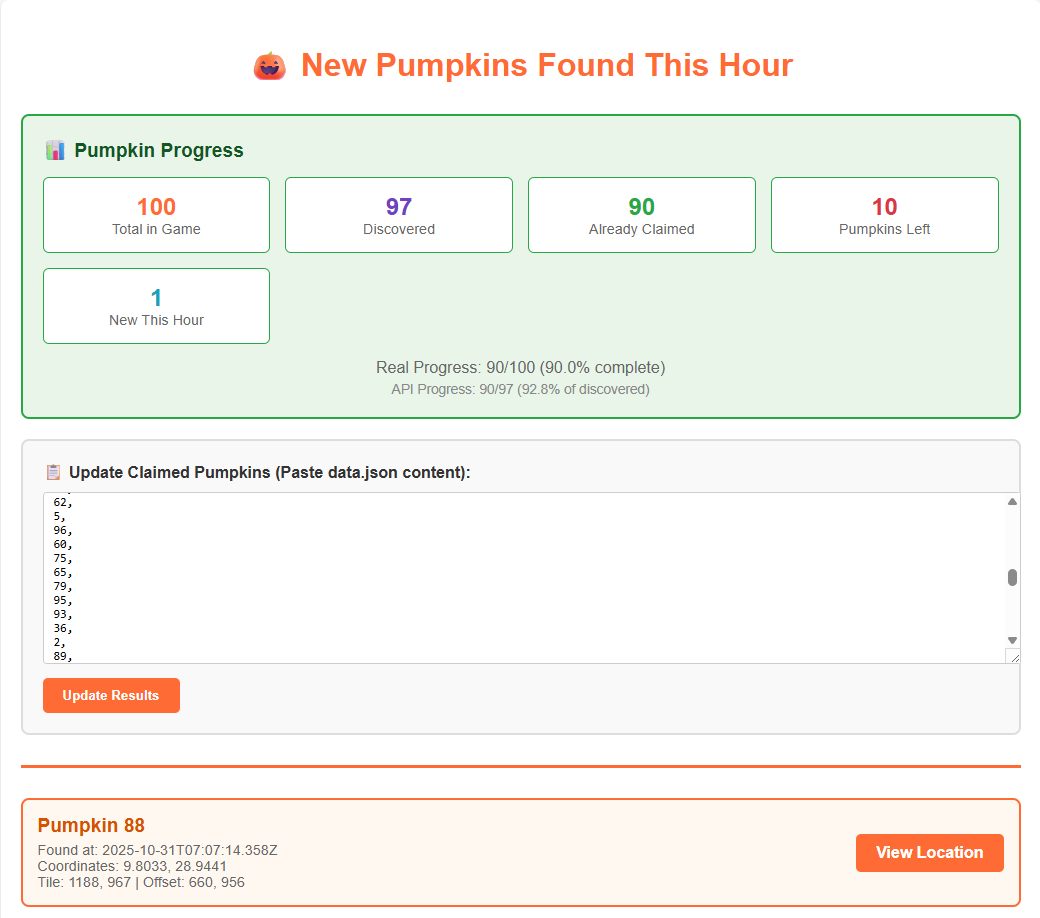
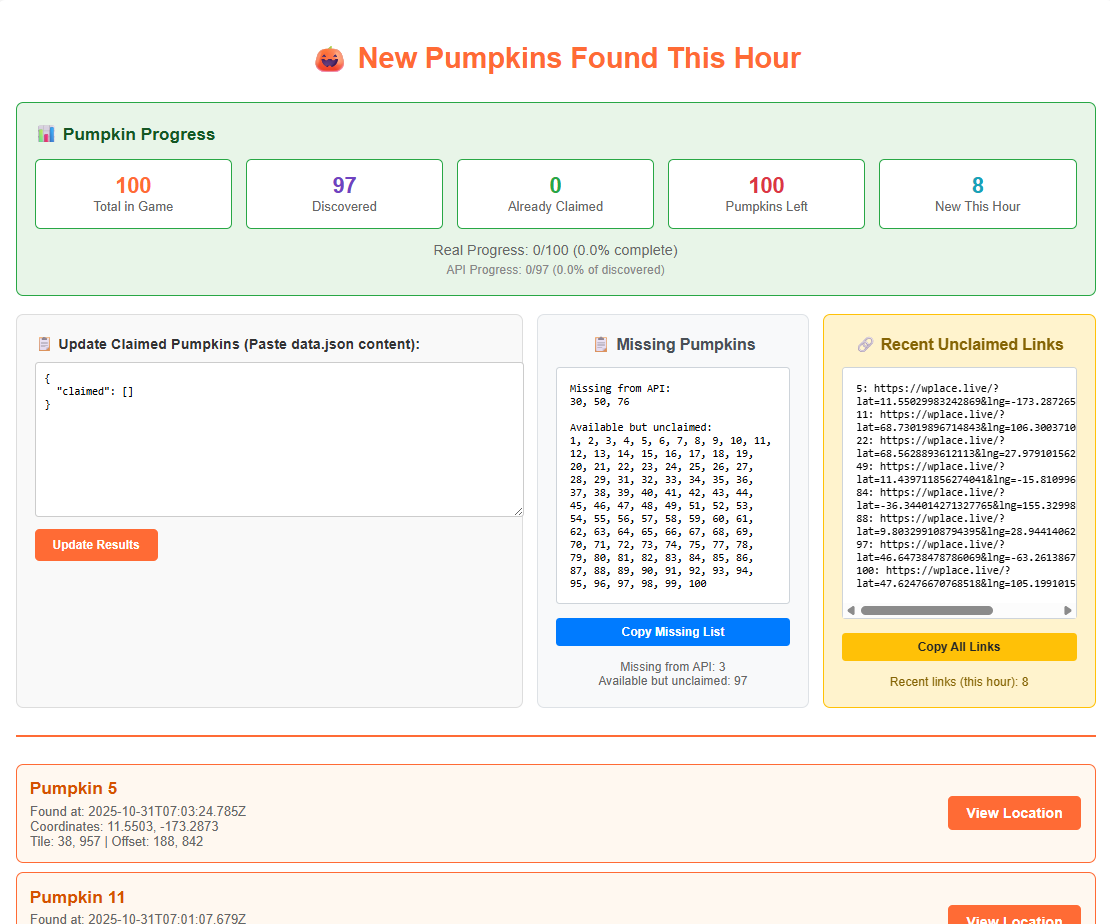
More info

diff --git a/fetch_pumpkin_data.py b/fetch_pumpkin_data.py
@@ -193,25 +193,49 @@ def create_web_app(initial_pumpkin_data: Dict[str, Any]) -> Flask:
                 background-color: #f5f5f5;
             }
             .container {
-                max-width: 1000px;
+                max-width: 1200px;
                 margin: 0 auto;
                 background-color: white;
                 padding: 20px;
                 border-radius: 8px;
                 box-shadow: 0 2px 4px rgba(0,0,0,0.1);
             }
+            .input-section-wrapper {
+                display: flex;
+                gap: 15px;
+                margin-bottom: 30px;
+            }
+            .input-section {
+                flex: 2;
+                background-color: #f9f9f9;
+                border: 2px solid #ddd;
+                border-radius: 8px;
+                padding: 20px;
+            }
+            .sidebar {
+                flex: 1;
+                background-color: #f8f9fa;
+                border: 2px solid #dee2e6;
+                border-radius: 8px;
+                padding: 20px;
+                max-height: 400px;
+                overflow-y: auto;
+            }
+            .links-panel {
+                flex: 1;
+                background-color: #fff3cd;
+                border: 2px solid #ffc107;
+                border-radius: 8px;
+                padding: 20px;
+                max-height: 400px;
+                overflow-y: auto;
+            }
             h1 { 
                 color: #ff6b35; 
                 text-align: center;
                 margin-bottom: 30px;
             }
-            .input-section {
-                background-color: #f9f9f9;
-                border: 2px solid #ddd;
-                border-radius: 8px;
-                padding: 20px;
-                margin-bottom: 30px;
-            }
+
             .input-label {
                 font-weight: bold;
                 margin-bottom: 10px;
@@ -312,6 +336,89 @@ def create_web_app(initial_pumpkin_data: Dict[str, Any]) -> Flask:
                 margin-top: 20px;
                 font-size: 0.9em;
             }
+            .sidebar-title {
+                font-weight: bold;
+                font-size: 1.1em;
+                color: #495057;
+                margin-bottom: 15px;
+                text-align: center;
+            }
+            .missing-list {
+                background: white;
+                border: 1px solid #ced4da;
+                border-radius: 4px;
+                padding: 15px;
+                font-family: monospace;
+                font-size: 12px;
+                white-space: pre-wrap;
+                max-height: 300px;
+                overflow-y: auto;
+                margin-bottom: 15px;
+            }
+            .copy-button {
+                width: 100%;
+                background-color: #007bff;
+                color: white;
+                padding: 8px 12px;
+                border: none;
+                border-radius: 4px;
+                cursor: pointer;
+                font-weight: bold;
+                transition: background-color 0.3s;
+            }
+            .copy-button:hover {
+                background-color: #0056b3;
+            }
+            .copy-success {
+                background-color: #28a745 !important;
+            }
+            .links-title {
+                font-weight: bold;
+                font-size: 1.1em;
+                color: #856404;
+                margin-bottom: 15px;
+                text-align: center;
+            }
+            .links-list {
+                background: white;
+                border: 1px solid #ffc107;
+                border-radius: 4px;
+                padding: 15px;
+                max-height: 300px;
+                overflow-y: auto;
+                margin-bottom: 15px;
+            }
+            .pumpkin-link-item {
+                margin-bottom: 8px;
+                padding: 8px;
+                background-color: #fff8e1;
+                border-radius: 4px;
+                border-left: 3px solid #ffc107;
+            }
+            .pumpkin-link-item a {
+                text-decoration: none;
+                color: #856404;
+                font-weight: bold;
+                font-size: 0.9em;
+            }
+            .pumpkin-link-item a:hover {
+                color: #533f03;
+                text-decoration: underline;
+            }
+            .copy-links-button {
+                width: 100%;
+                background-color: #ffc107;
+                color: #212529;
+                padding: 8px 12px;
+                border: none;
+                border-radius: 4px;
+                cursor: pointer;
+                font-weight: bold;
+                transition: background-color 0.3s;
+            }
+            .copy-links-button:hover {
+                background-color: #e0a800;
+            }
         </style>
     </head>
     <body>
@@ -348,7 +455,8 @@ def create_web_app(initial_pumpkin_data: Dict[str, Any]) -> Flask:
                 </div>
             </div>
             
-            <div class="input-section">
+            <div class="input-section-wrapper">
+                <div class="input-section">
                 <div class="input-label">📋 Update Claimed Pumpkins (Paste data.json content):</div>
                 <textarea id="dataInput" class="data-input" placeholder='Paste your data.json content here, e.g.:
 {
@@ -356,6 +464,26 @@ def create_web_app(initial_pumpkin_data: Dict[str, Any]) -> Flask:
 }'></textarea>
                 <button id="updateButton" class="update-button" onclick="updatePumpkins()">Update Results</button>
                 <div id="statusMessage" class="status-message" style="display: none;"></div>
+                </div>
+                
+                <div class="sidebar">
+                    <div class="sidebar-title">📋 Missing Pumpkins</div>
+                    <div class="missing-list" id="missingList">{{ missing_pumpkins_text }}</div>
+                    <button class="copy-button" id="copyButton" onclick="copyMissingList()">Copy Missing List</button>
+                    <div style="margin-top: 15px; font-size: 0.85em; color: #666; text-align: center;">
+                        <div>Missing from API: <span id="missingFromApi">{{ missing_from_api_count }}</span></div>
+                        <div>Available but unclaimed: <span id="availableUnclaimed">{{ available_unclaimed_count }}</span></div>
+                    </div>
+                </div>
+                
+                <div class="links-panel">
+                    <div class="links-title">🔗 Recent Unclaimed Links</div>
+                    <div class="missing-list" id="linksList">{{ unclaimed_links_text }}</div>
+                    <button class="copy-links-button" id="copyLinksButton" onclick="copyUnclaimedLinks()">Copy Recent Links</button>
+                    <div style="margin-top: 15px; font-size: 0.85em; color: #856404; text-align: center;">
+                        <div>Recent links (this hour): <span id="availableLinksCount">{{ recent_unclaimed_count }}</span></div>
+                    </div>
+                </div>
             </div>
             
             <div class="pumpkin-results">
@@ -443,6 +571,15 @@ def create_web_app(initial_pumpkin_data: Dict[str, Any]) -> Flask:
                         document.getElementById('progressText').textContent = `Real Progress: ${result.claimedPumpkins}/${result.totalPumpkins} (${realProgressPercent}% complete)`;
                         document.getElementById('apiProgressText').textContent = `API Progress: ${result.claimedPumpkins}/${result.apiPumpkins} (${apiProgressPercent}% of discovered)`;
                         
+                        // Update sidebar
+                        document.getElementById('missingList').textContent = result.missingPumpkinsText;
+                        document.getElementById('missingFromApi').textContent = result.missingFromApiCount;
+                        document.getElementById('availableUnclaimed').textContent = result.availableUnclaimedCount;
+                        
+                        // Update links panel
+                        document.getElementById('linksList').textContent = result.unclaimedLinksText;
+                        document.getElementById('availableLinksCount').textContent = result.recentUnclaimedCount;
+                        
                         showStatus(`Updated successfully! Found ${result.count} new pumpkins.`, 'success');
                     } else {
                         showStatus('Error: ' + result.error, 'error');
@@ -468,6 +605,73 @@ def create_web_app(initial_pumpkin_data: Dict[str, Any]) -> Flask:
                     statusEl.style.display = 'none';
                 }, 5000);
             }
+            
+            function copyMissingList() {
+                const missingList = document.getElementById('missingList');
+                const button = document.getElementById('copyButton');
+                
+                // Select and copy the text
+                if (navigator.clipboard && window.isSecureContext) {
+                    navigator.clipboard.writeText(missingList.textContent).then(() => {
+                        button.textContent = 'Copied!';
+                        button.classList.add('copy-success');
+                        setTimeout(() => {
+                            button.textContent = 'Copy Missing List';
+                            button.classList.remove('copy-success');
+                        }, 2000);
+                    });
+                } else {
+                    // Fallback for older browsers
+                    const textArea = document.createElement('textarea');
+                    textArea.value = missingList.textContent;
+                    document.body.appendChild(textArea);
+                    textArea.select();
+                    document.execCommand('copy');
+                    document.body.removeChild(textArea);
+                    
+                    button.textContent = 'Copied!';
+                    button.classList.add('copy-success');
+                    setTimeout(() => {
+                        button.textContent = 'Copy Missing List';
+                        button.classList.remove('copy-success');
+                    }, 2000);
+                }
+            }
+            
+            function copyUnclaimedLinks() {
+                const linksList = document.getElementById('linksList');
+                const button = document.getElementById('copyLinksButton');
+                
+                // Get the plain text content
+                const linksText = linksList.textContent;
+                
+                // Copy the text
+                if (navigator.clipboard && window.isSecureContext) {
+                    navigator.clipboard.writeText(linksText).then(() => {
+                        button.textContent = 'Copied!';
+                        button.style.backgroundColor = '#28a745';
+                        setTimeout(() => {
+                            button.textContent = 'Copy All Links';
+                            button.style.backgroundColor = '#ffc107';
+                        }, 2000);
+                    });
+                } else {
+                    // Fallback for older browsers
+                    const textArea = document.createElement('textarea');
+                    textArea.value = linksText;
+                    document.body.appendChild(textArea);
+                    textArea.select();
+                    document.execCommand('copy');
+                    document.body.removeChild(textArea);
+                    
+                    button.textContent = 'Copied!';
+                    button.style.backgroundColor = '#28a745';
+                    setTimeout(() => {
+                        button.textContent = 'Copy All Links';
+                        button.style.backgroundColor = '#ffc107';
+                    }, 2000);
+                }
+            }
         </script>
     </body>
     </html>
@@ -491,6 +695,37 @@ def create_web_app(initial_pumpkin_data: Dict[str, Any]) -> Flask:
         pumpkins_left = total_pumpkins - claimed_pumpkins
         api_progress_percent = round((claimed_pumpkins / api_pumpkins * 100), 1) if api_pumpkins > 0 else 0
         real_progress_percent = round((claimed_pumpkins / total_pumpkins * 100), 1)
+        
+        # Generate missing pumpkins list
+        all_possible_ids = set(range(1, total_pumpkins + 1))
+        api_pumpkin_ids = set(int(pid) for pid in app.pumpkin_data.keys())
+        missing_from_api = sorted(all_possible_ids - api_pumpkin_ids)
+        available_unclaimed = sorted(api_pumpkin_ids - existing_ids)
+        
+        missing_pumpkins_text = "Missing from API:\n" + ", ".join(map(str, missing_from_api))
+        missing_pumpkins_text += "\n\nAvailable but unclaimed:\n" + ", ".join(map(str, available_unclaimed))
+        
+        missing_from_api_count = len(missing_from_api)
+        available_unclaimed_count = len(available_unclaimed)
+        
+        # Generate unclaimed links text (filtered for current hour)
+        unclaimed_links_text = ""
+        recent_unclaimed_count = 0
+        for pumpkin_id in available_unclaimed:
+            pumpkin_info = app.pumpkin_data.get(str(pumpkin_id))
+            if pumpkin_info:
+                # Check if this pumpkin was found within the current hour
+                try:
+                    found_at = datetime.fromisoformat(pumpkin_info['foundAt'].replace('Z', '+00:00'))
+                    now = datetime.now(timezone.utc)
+                    current_hour_start = now.replace(minute=0, second=0, microsecond=0)
+                    
+                    if found_at >= current_hour_start:
+                        link = generate_pumpkin_link(pumpkin_info['lat'], pumpkin_info['lng'])
+                        unclaimed_links_text += f"{pumpkin_id}: {link}\n"
+                        recent_unclaimed_count += 1
+                except (KeyError, ValueError):
+                    continue
             
         return render_template_string(
             html_template,
@@ -504,7 +739,12 @@ def create_web_app(initial_pumpkin_data: Dict[str, Any]) -> Flask:
             pumpkins_left=pumpkins_left,
             new_this_hour=len(recent_pumpkins),
             api_progress_percent=api_progress_percent,
-            real_progress_percent=real_progress_percent
+            real_progress_percent=real_progress_percent,
+            missing_pumpkins_text=missing_pumpkins_text,
+            missing_from_api_count=missing_from_api_count,
+            available_unclaimed_count=available_unclaimed_count,
+            unclaimed_links_text=unclaimed_links_text,
+            recent_unclaimed_count=recent_unclaimed_count
         )
     
     @app.route('/get_initial_data')
@@ -578,6 +818,34 @@ def create_web_app(initial_pumpkin_data: Dict[str, Any]) -> Flask:
             claimed_pumpkins = len(existing_ids)
             pumpkins_left = total_pumpkins - claimed_pumpkins
             
+            # Generate missing pumpkins list
+            all_possible_ids = set(range(1, total_pumpkins + 1))
+            api_pumpkin_ids = set(int(pid) for pid in app.pumpkin_data.keys())
+            missing_from_api = sorted(all_possible_ids - api_pumpkin_ids)
+            available_unclaimed = sorted(api_pumpkin_ids - existing_ids)
+            
+            missing_pumpkins_text = "Missing from API:\n" + ", ".join(map(str, missing_from_api))
+            missing_pumpkins_text += "\n\nAvailable but unclaimed:\n" + ", ".join(map(str, available_unclaimed))
+            
+            # Generate unclaimed links text (filtered for current hour)
+            unclaimed_links_text = ""
+            recent_unclaimed_count = 0
+            for pumpkin_id in available_unclaimed:
+                pumpkin_info = app.pumpkin_data.get(str(pumpkin_id))
+                if pumpkin_info:
+                    # Check if this pumpkin was found within the current hour
+                    try:
+                        found_at = datetime.fromisoformat(pumpkin_info['foundAt'].replace('Z', '+00:00'))
+                        now = datetime.now(timezone.utc)
+                        current_hour_start = now.replace(minute=0, second=0, microsecond=0)
+                        
+                        if found_at >= current_hour_start:
+                            link = generate_pumpkin_link(pumpkin_info['lat'], pumpkin_info['lng'])
+                            unclaimed_links_text += f"{pumpkin_id}: {link}\n"
+                            recent_unclaimed_count += 1
+                    except (KeyError, ValueError):
+                        continue
+            
             return jsonify({
                 "success": True,
                 "html": ''.join(html_parts),
@@ -586,7 +854,12 @@ def create_web_app(initial_pumpkin_data: Dict[str, Any]) -> Flask:
                 "totalPumpkins": total_pumpkins,
                 "apiPumpkins": api_pumpkins,
                 "claimedPumpkins": claimed_pumpkins,
-                "pumpkinsLeft": pumpkins_left
+                "pumpkinsLeft": pumpkins_left,
+                "missingPumpkinsText": missing_pumpkins_text,
+                "missingFromApiCount": len(missing_from_api),
+                "availableUnclaimedCount": len(available_unclaimed),
+                "unclaimedLinksText": unclaimed_links_text,
+                "recentUnclaimedCount": recent_unclaimed_count
             })
             
         except Exception as e:
